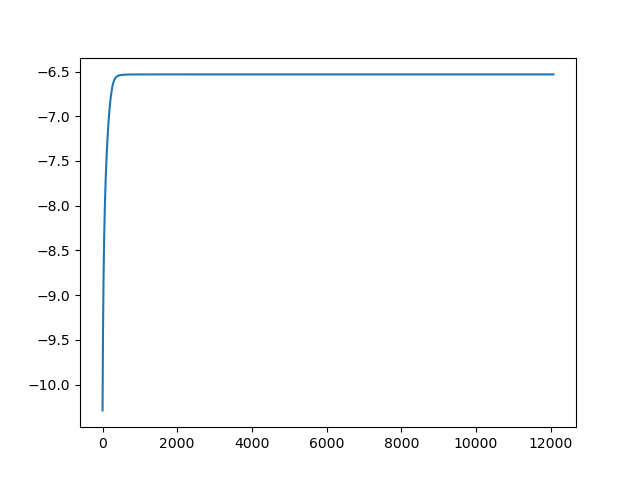
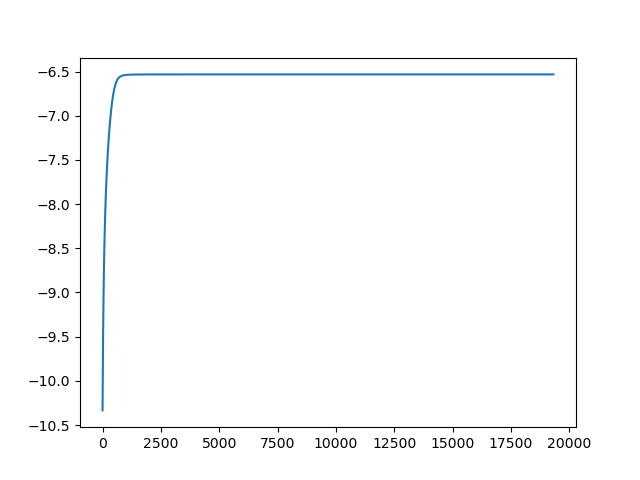
Added functionality for partition function but not working yet

diff --git a/BM.py b/BM.py
@@ -1,6 +1,7 @@
 import numpy as np 
 from itertools import product
 import matplotlib.pyplot as plt
+from functools import cached_property
 
 np.random.seed(42)
 
@@ -9,19 +10,19 @@ class BoltzmannMachine():
     def __init__(self, data, w, theta, eta, epsilon, num_iter):
         self.data, self.w, self.theta = data, w, theta
         self.eta, self.epsilon = eta, epsilon
+        self.N, self.P = self.data.shape[0], self.data.shape[1]
 
         # TODO: Here we will run into a problem sooner or later because we need all configs atm
         # to get log likelihood but for 160 neurons in salamander retina that means 
         # 2**160 = 1461501637330902918203684832716283019655932542976 configurations.
         # I guess we need to approximate Z somehow 
 
-        all_configurations = list(product([-1, 1], repeat=w.shape[0]))
-        self.all_configurations = np.array(all_configurations).T
-        self.N, self.P = self.data.shape[0], self.data.shape[1]
+        
         self.all_LLs = dict(exact = list(), MH = list()) 
         self.num_iter = num_iter
 
         self.get_clamped_stats() ## DUNNO if at some point this comes out of the init()
+
 
     def get_clamped_stats(self):
         self.mu_c = np.mean(self.data, axis = 1)
@@ -41,15 +42,35 @@ class BoltzmannMachine():
 
 
     def boltzmann_gibbs_normalized(self, x):
-        all_configurations = self.all_configurations
-
         unnormalized = self.boltzmann_gibbs(x)
-        Z = np.sum(self.boltzmann_gibbs(all_configurations))
+        Z = self.partition_function()
 
         out = unnormalized/Z
         if len(out) == 1:
             out = out[0]
         return out
+    
+
+    @cached_property
+    def all_configurations(self):
+        all_configs = list(product([-1, 1], repeat=self.N))
+        return np.array(all_configs).T
+    
+    
+    def partition_function(self):
+        if self.N <= 20:
+            Z = np.sum(self.boltzmann_gibbs(self.all_configurations))
+        else:
+            ## TODO: Not sure how to but here we need to replace self.mu_c by some different m_i
+            ## THIS DOES NOT WORK YET!
+            # For now:
+            m_i = self.mu_c
+            # See handout p. 19/20
+            log_term = np.sum((1+m_i) * np.log(.5*(1+m_i)) + (1-m_i) *  np.log(.5*(1-m_i)))
+            F = -.5 * np.einsum("ij,i,j->", self.w, m_i, m_i) + .5 * log_term
+            Z = np.exp(-F)
+            print(Z)
+        return Z
 
 
     def log_likelihood(self, x):
@@ -67,19 +88,18 @@ class BoltzmannMachine():
 
         # for _ in range(500):
         while True: 
-            all_probs = self.boltzmann_gibbs_normalized(self.all_configurations)
-            assert(np.isclose(np.sum(all_probs),1))
 
             if method == "MH":
                 mu, Sigma = self.metropolis_hastings(self.num_iter)
             if method == "exact":
-                all_configurations = list(product([-1, 1], repeat=self.w.shape[0]))
-                self.all_configurations = np.array(all_configurations).T
+                all_probs = self.boltzmann_gibbs_normalized(self.all_configurations)
+                # assert(np.isclose(np.sum(all_probs),1))
+                
                 mu = self.all_configurations @ all_probs
                 Sigma = np.einsum('ik,k,jk->ij',self.all_configurations, all_probs, self.all_configurations) 
 
             Sigma = Sigma - np.diag(Sigma)
-            assert np.all(np.isclose(Sigma, Sigma.T))
+            # assert np.all(np.isclose(Sigma, Sigma.T))
 
 
             dw = (self.Sigma_c - Sigma)
@@ -194,7 +214,7 @@ def main():
     theta = theta_init = np.random.randn(n)
 
     bm = BoltzmannMachine(x_small, w, theta, eta, epsilon, num_iter)
-    # bm.plot_LL("toydata", "MH")
+    bm.plot_LL("toydata", "MH")
 
     for epsilon_1 in 10.**(np.arange(1, -2, -.2)):
         print(epsilon_1)

diff --git a/Salamander_Retina.py b/Salamander_Retina.py
@@ -16,7 +16,7 @@ def main():
     theta = theta_init = np.random.randn(n)
 
     # TODO: As is, running this kills my terminal straight away. Even initializing requires 
-    # computation of all possible configurations which is intractable. Needs to be changed
+    # computation of all possible configurations which is intractable. Needs to be changed!
     bm = BoltzmannMachine(data, w, theta, eta, epsilon, num_iter)
     # bm.plot_LL("salamander", "MH")
     
